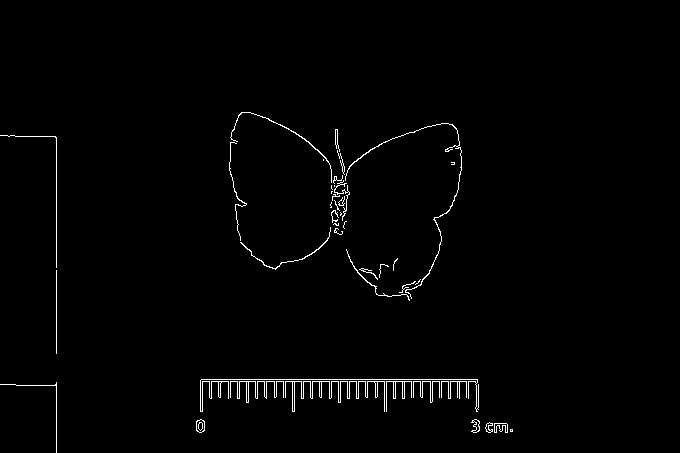
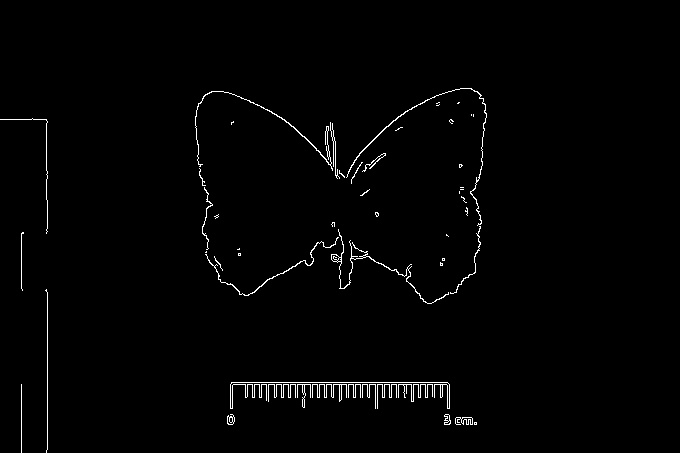
Patron de reescalado
Por fin he encontrado un buen metodo que se ajuste bien a encontrar la
regla en las muestras. Mediante cornerHarris detectamos a la perfeccion
el punto del cero y del tres. Con lo cual ya sabesmos cuanto mide cada
mariposa. Las voy a reescalar al tamaño real. Todas.

diff --git a/OpenCV_1/Proyecto/reescalar_but.py b/OpenCV_1/Proyecto/reescalar_but.py
@@ -2,34 +2,93 @@ import cv2
 import numpy as np
 
 
+#Funcion a le que le pasamos dos imagenes en escala de grises y intenta un matchtemplate del primer elemento en el segundo.
+#Devuelve la imagen con el rectangulo pintado, la mnLoc (x,y) y el valor de acierto (mn)
+def match(img):
+    
+    tmp_n = cv2.imread('tmp_n.jpg')
+    tmp_p = cv2.imread('tmp_p.jpg')
+    tmp_g = cv2.imread('tmp_p.jpg')
+    tmp_n = cv2.cvtColor(tmp_n, cv2.CV_32FC1)
+    tmp_p = cv2.cvtColor(tmp_p, cv2.CV_32FC1)
+    tmp_g = cv2.cvtColor(tmp_p, cv2.CV_32FC1)
+    
+    bad = True
+    
+    while(bad):
+        d1 = cv2.matchTemplate(tmp_n, img, cv2.cv.CV_TM_SQDIFF_NORMED)
+        d2 = cv2.matchTemplate(tmp_p, img, cv2.cv.CV_TM_SQDIFF_NORMED)
+        d3 = cv2.matchTemplate(tmp_g, img, cv2.cv.CV_TM_SQDIFF_NORMED)
+        
+        mn1,_,mnLoc1,_ = cv2.minMaxLoc(d1)
+        mn2,_,mnLoc2,_ = cv2.minMaxLoc(d2)
+        mn3,_,mnLoc3,_ = cv2.minMaxLoc(d3)
+        
+        mn = min(mn1,mn2,mn3)
+        
+        if mn == mn1:
+            MPx,MPy = mnLoc1
+            trows,tcols = tmp_n.shape[:2]
+        elif mn == mn2:
+            MPx,MPy = mnLoc2
+            trows,tcols = tmp_p.shape[:2]
+        else:
+            MPx,MPy = mnLoc3
+            trows,tcols = tmp_g.shape[:2]    
+           
+        h,w = img.shape[:2]
+        # Print it, for comparison    
+        print mn
+           
+        if mn >= 0.24 and bad == True:
+            #recortamos la imagen para acercarnos mas al resultado
+            crop_img = img[h-70:h,0:w-70] # Crop from x, y, w, h -> 100, 200, 300, 400
+            # NOTE: its img[y: y + h, x: x + w] and *not* img[x: x + w, y: y + h] 
+            bad = False
+  
+        else:
+            bad = False
+     
+    # Draw the rectangle 
+    cv2.rectangle(img, (MPx,MPy),(MPx+tcols,MPy+trows),(0,0,255),2)
+    
+    return MPx,MPy,mn
+
+def cero_tres(img):
+    
+    h,w = img.shape[:2]
+    v0 = (w,0)
+    v3 = (0,0)
+    
+    gray = cv2.cvtColor(img,cv2.COLOR_BGR2GRAY)
+    gray = np.float32(gray)
+    #Detecta perfectamente el zero y el tres
+    dst = cv2.cornerHarris(gray,15,21,0.22)
+    
+    #result is dilated for marking the corners, not important
+    dst = cv2.dilate(dst,None)
+    
+    # Threshold for an optimal value, it may vary depending on the image.
+    img[dst>0.005*dst.max()]=[0,0,255]
+
+    return img
+
+
 for i in range(100):
     path = 'ima/img (' + str(i+1) + ').jpg'
-    img = cv2.imread(path,0)
-    edges = cv2.Canny(img,250,500)    
-    cv2.imwrite('canny.jpg', edges)
+    img = cv2.imread(path)
     
+    #edges = cv2.Canny(img,270,500)    
+    #cv2.imwrite('canny.jpg', edges)
     
-    tmp = cv2.imread('three.jpg')
-    tmp_g = cv2.cvtColor(tmp, cv2.CV_32FC1)
+    #img = cv2.imread('canny.jpg')
+    #img_g = cv2.cvtColor(img, cv2.CV_32FC1)
     
-    img = cv2.imread('canny.jpg')
-    img_g = cv2.cvtColor(img, cv2.CV_32FC1)
+    #x,y,mn = match(img_g)
     
-    d = cv2.matchTemplate(tmp_g, img_g, cv2.cv.CV_TM_SQDIFF_NORMED)
-    # we want the minimum squared difference
-    mn,_,mnLoc,_ = cv2.minMaxLoc(d)
-     
-    # Print it, for comparison
-    #print mn
-     
-    # Draw the rectangle
-    MPx,MPy = mnLoc
-     
-    trows,tcols = tmp_g.shape[:2]
-     
-    # Normed methods give better results, ie matchvalue = [1,3,5], others sometimes shows errors
-    cv2.rectangle(img, (MPx,MPy),(MPx+tcols,MPy+trows),(0,0,255),2)  
-    cv2.imshow('output',img)
+    img_z = cero_tres(img)
+          
+    cv2.imshow('output',img_z)
     cv2.waitKey()
     
     

diff --git a/OpenCV_1/Entrenamiento/aislar_regla.py b/OpenCV_1/Entrenamiento/aislar_regla.py
@@ -1,25 +1,31 @@
 import cv2
 import numpy as np
+import math
+#Carga de imagenes
+img = cv2.imread('img.jpg')
+gray = cv2.cvtColor(img, cv2.COLOR_BGR2GRAY)
+edges = cv2.Canny(gray,500,250)
+cv2.imshow("Canny",edges)
+cv2.waitKey()
 
+sobely = cv2.Sobel(edges,cv2.CV_64F,0,1,ksize=9)
+cv2.imshow("Canny",sobely)
+cv2.waitKey()
 
-def nothing():
-    cv2.imshow("Canny",edges)
+lines = cv2.HoughLines(edges,1,np.pi/180,200)
+for rho,theta in lines[0]:
+    a = np.cos(theta)
+    b = np.sin(theta)
+    x0 = a*rho
+    y0 = b*rho
+    x1 = int(x0 + 1000*(-b))
+    y1 = int(y0 + 1000*(a))
+    x2 = int(x0 - 1000*(-b))
+    y2 = int(y0 - 1000*(a))
 
+    cv2.line(edges,(x1,y1),(x2,y2),(0,0,255),2)
 
-
-
-for i in range(100):
-    path = 'ima/img (' + str(i+1) + ').jpg'
-    img = cv2.imread(path,0)
-    edges = cv2.Canny(img,250,500)
-    cv2.imshow("Original",img)
-    cv2.imshow("Canny",edges)
-    
-    u1 = cv2.getTrackbarPos("Umbral1", "umbrales")
-    u2 = cv2.getTrackbarPos("Umbral2", "umbrales")
-    
-    if cv2.waitKey(1) == 27:
-        cv2.imwrite("canny.jpg", edges)
-        break
+cv2.imshow("Canny",edges)
+cv2.waitKey()
 
 cv2.destroyAllWindows()

diff --git a/OpenCV_1/Entrenamiento/canny.py b/OpenCV_1/Entrenamiento/canny.py
@@ -6,7 +6,7 @@ u1,u2=100,200
 def nothing():
     cv2.imshow("Canny",edges)
 
-img = cv2.imread('img.jpg',0)
+img = cv2.imread('img (34).jpg',0)
 cv2.namedWindow("umbrales",cv2.WINDOW_AUTOSIZE)
 cv2.createTrackbar("Umbral1", "umbrales", 0, 500, nothing)
 cv2.createTrackbar("Umbral2", "umbrales", 0, 500, nothing)

diff --git a/OpenCV_1/Proyecto/resize.py b/OpenCV_1/Proyecto/resize.py
@@ -44,7 +44,6 @@ def findscale(img):
     
     return img_v
 
-    def get
 
 '''image_name = "img_v.jpg"
 haystack = cv2.imread(image_name)
